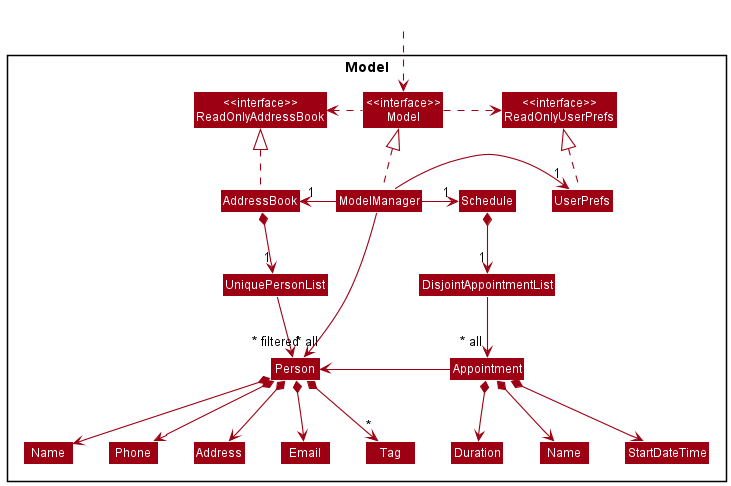
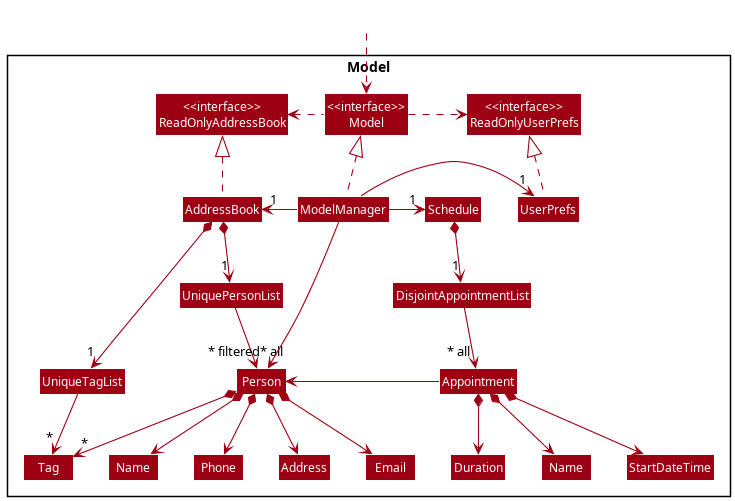
Amend Model class diagram to include Tag management

diff --git a/docs/DeveloperGuide.md b/docs/DeveloperGuide.md
@@ -123,6 +123,7 @@ The `Model` component,
 * stores the address book data i.e., all `Person` objects (which are contained in a `UniquePersonList` object).
 * stores the currently 'selected' `Person` objects (e.g., results of a search query) as a separate _filtered_ list which is exposed to outsiders as an unmodifiable `ObservableList<Person>` that can be 'observed' e.g. the UI can be bound to this list so that the UI automatically updates when the data in the list change.
 * stores the schedule data i.e., all `Appointment` objects (which are contained in a `DisjointAppointmentList` object).
+* store the tag data i.e., all `Tag` objects (which are contained in a `UniqueTagList` object).
 * stores a `UserPref` object that represents the user’s preferences. This is exposed to the outside as a `ReadOnlyUserPref` objects.
 * does not depend on any of the other three components (as the `Model` represents data entities of the domain, they should make sense on their own without depending on other components)
 

diff --git a/docs/UserGuide.md b/docs/UserGuide.md
@@ -502,7 +502,7 @@ Action | Format, Examples
 **Add Tag** | `addtag n/TAGNAME` <br> e.g., `addtag n/Potential Clients`
 **Edit Tag** | `edittag f/OLD_TAGNAME t/NEW_TAGNAME` <br> e.g., `edittag f/New Clients t/Prospective Clients`
 **List Tags** | `listtags`
-**Delete Tag** | `deletetag n/TAGNAME` <br> e.g., `deletetag n/friends`
+**Delete Tag** | `deletetag IDNEX` <br> e.g., `deletetag 1`
 **Find Contacts By Tag** | `findByTag t/TAGNAME` <br> e.g., `findByTag t/friends`
 **Add Appointment** | `addAppointment n/NAME d/DATE t/TIME l/DURATION p/PERSON`<br> e.g., `addAppointment n/Call Bob d/14-02-2022 t/11:00 p/2 l/60`
 **List Appointments** | `listAppointments`
